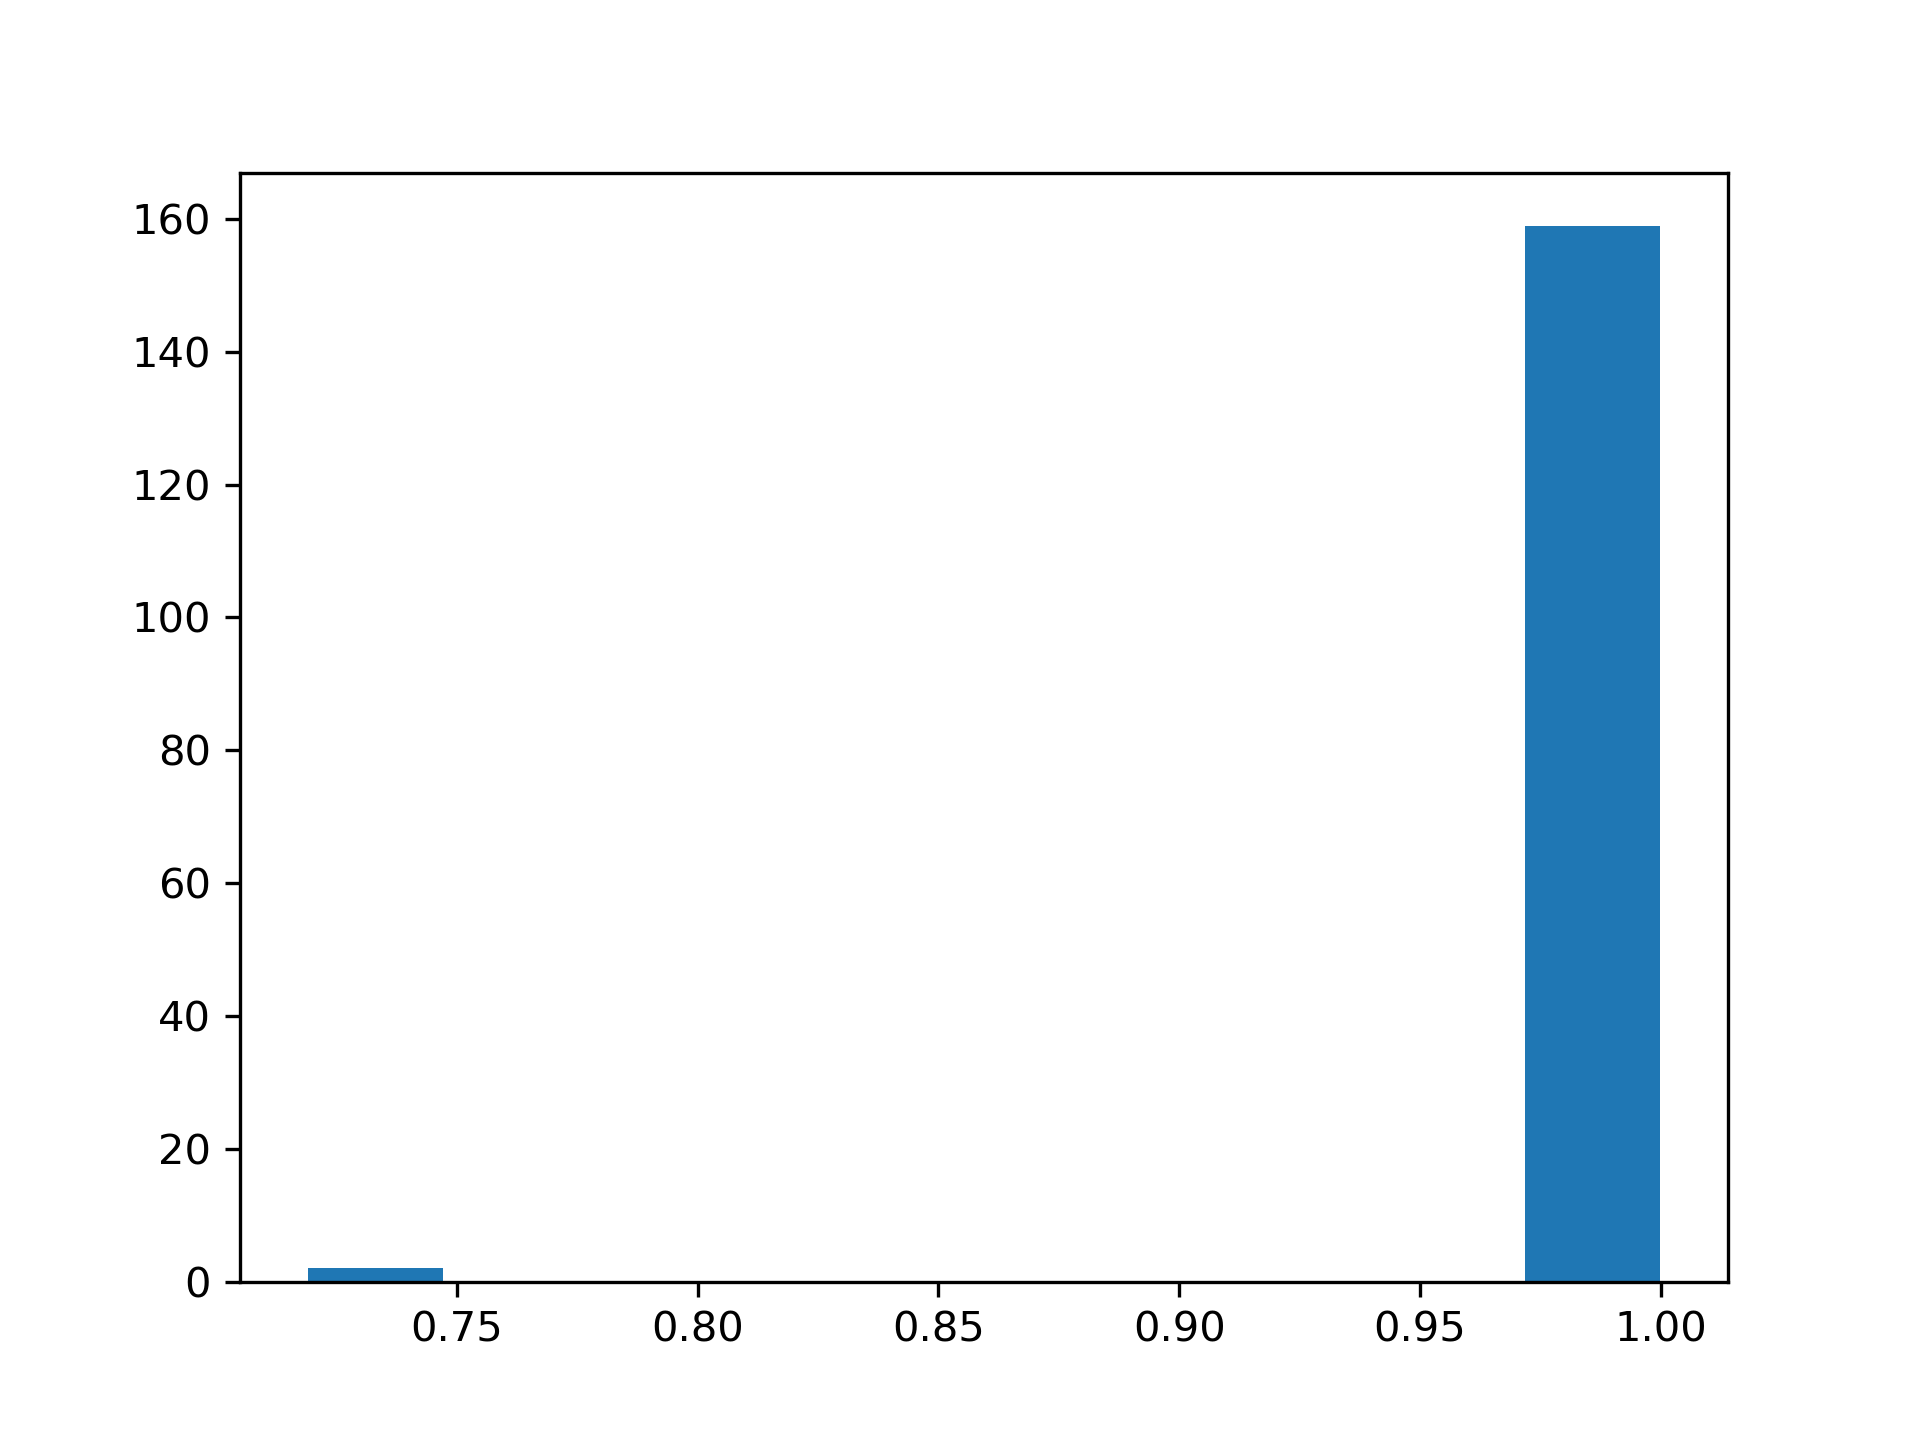
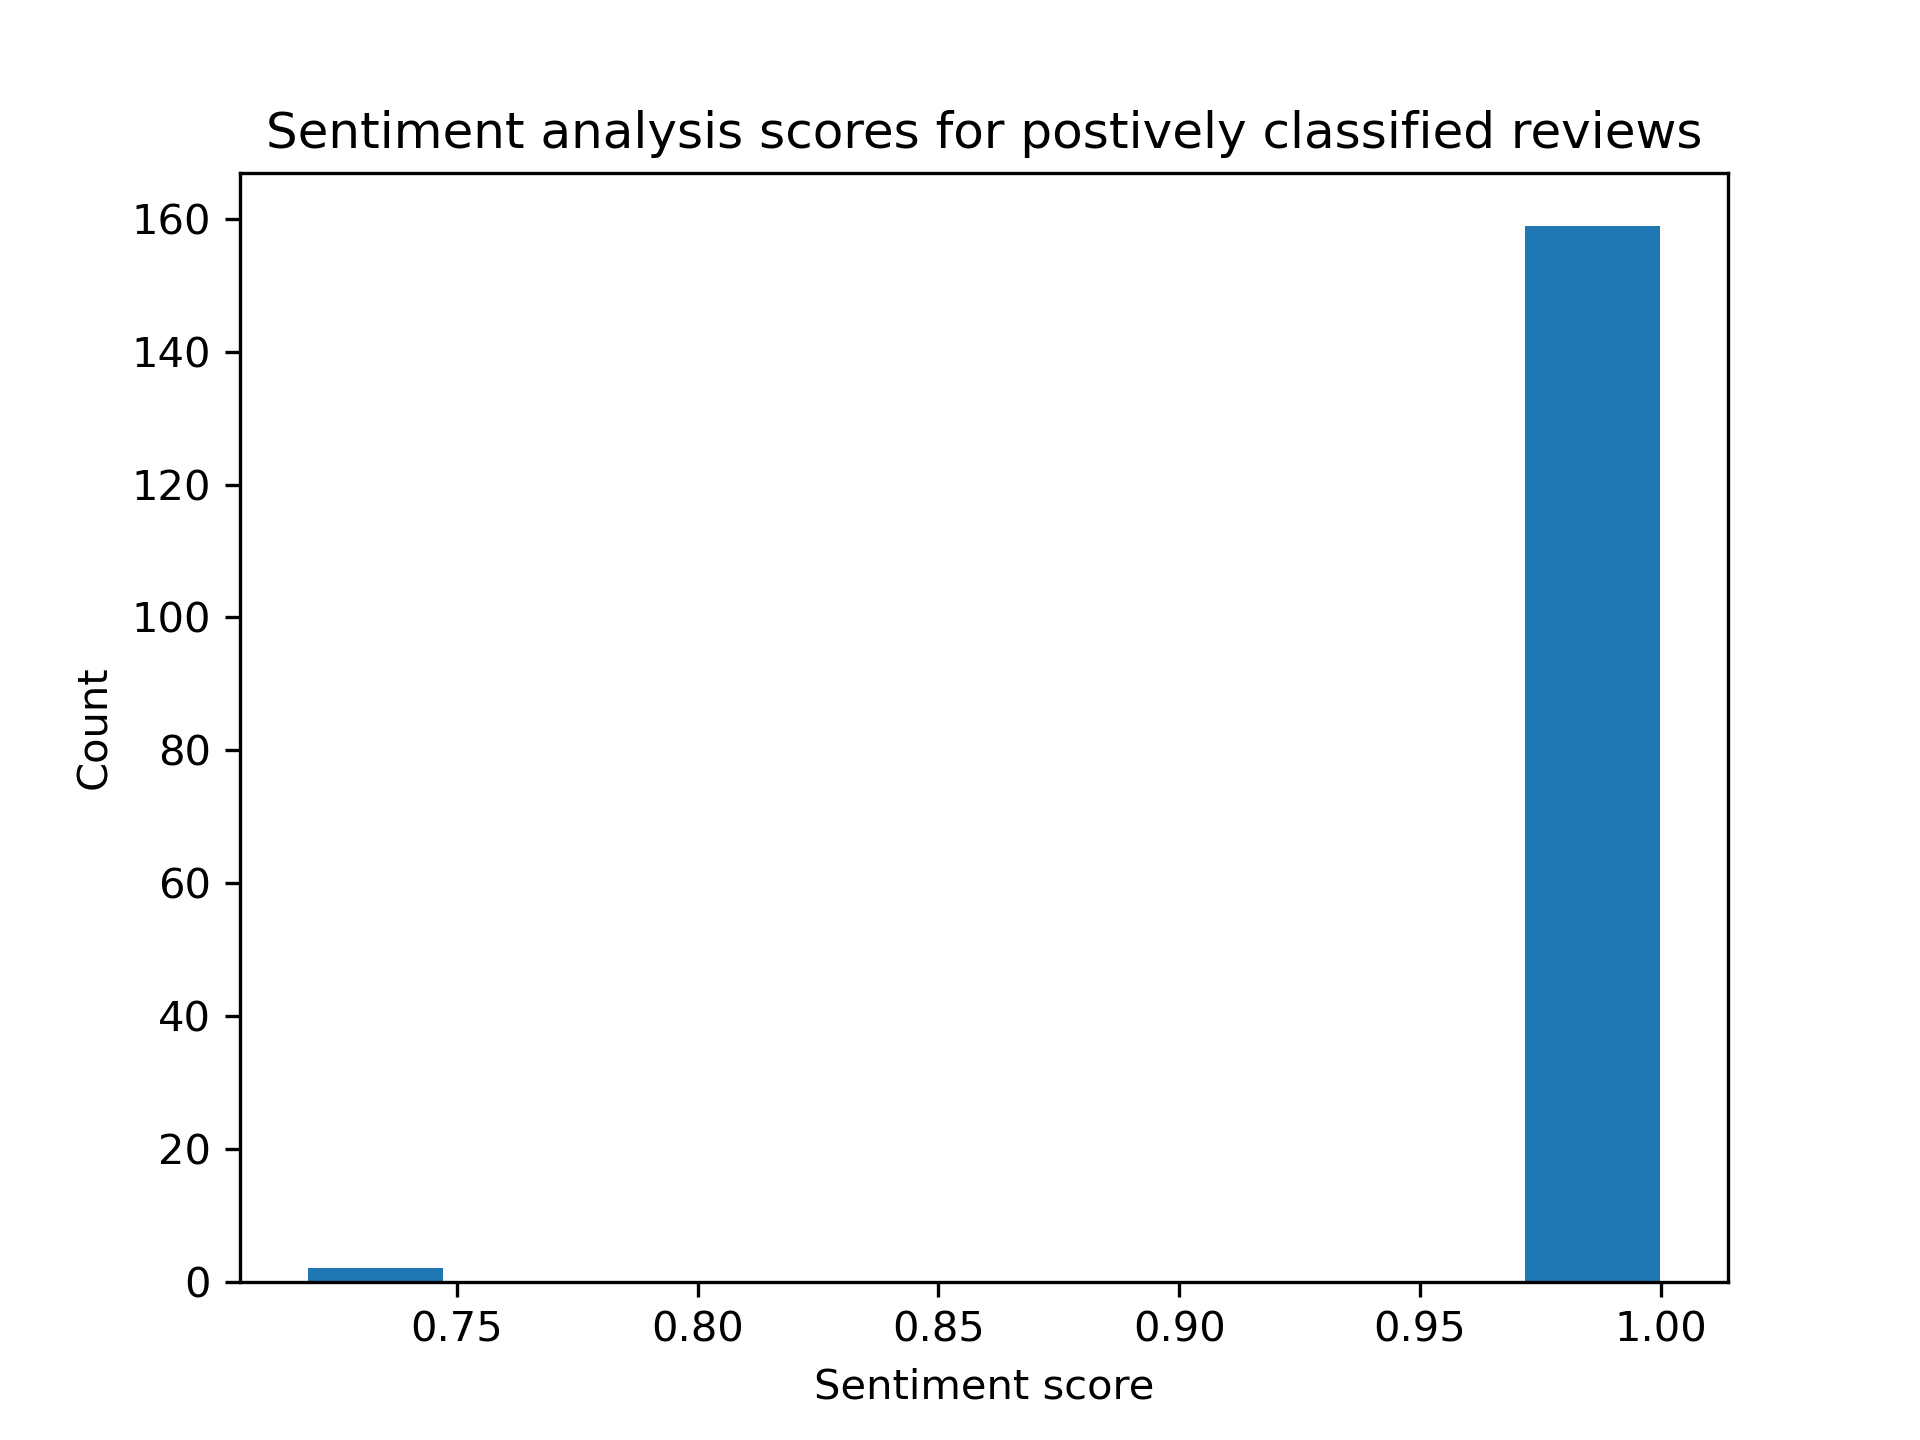
Trnafdormer histogtram plot update

Changed region(s): [[0.125, 0.0625, 0.875, 0.125], [0.4375, 0.9375, 0.5938, 0.9688], [0.0312, 0.4688, 0.0625, 0.5625]]

diff --git a/README.md b/README.md
@@ -45,7 +45,7 @@ The sentiment analysis here is based on the results of the distilbert-base-uncas
 
 ![sentiment_scores](vis/transformer_scores.png)
 
-Fig 3: Histogram  of the 160  positively sentiment classfied TripAdvisor reviews. 
+Fig 3: Histogram  of the 160 positively sentiment classfied TripAdvisor reviews (score 0-1). 
 
 Results.
 1. 160 one of the TripAdvsior reviews have been classified as positive sentiment.
